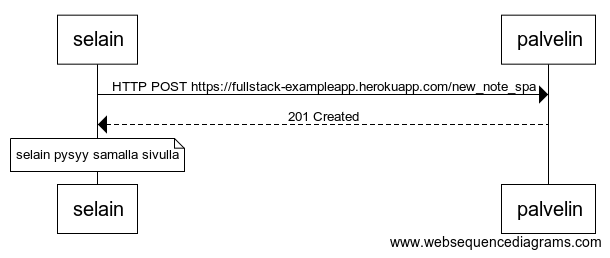
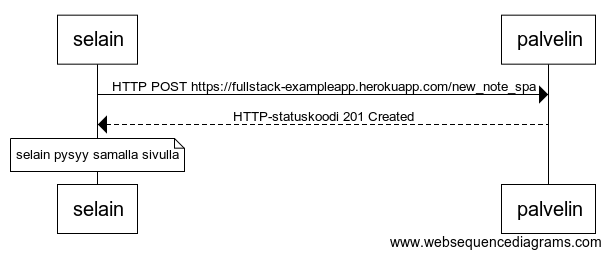
lisätty md ja päivitetty 0.6

Changed region(s): [[0.3738, 0.4341, 0.6852, 0.4961]]

diff --git a/osa0/tehtavat_osa0.md b/osa0/tehtavat_osa0.md
@@ -1,0 +1,13 @@
+# Osan 0 tehtävät
+
+## Tehtävä 0.4: uusi muistiinpano
+
+![alt text](https://raw.githubusercontent.com/areee/fullstack-kurssi/master/osa0/tehtava0_4.png "Tehtävä 0.4")
+
+## Tehtävä 0.5: Single Page App
+
+![alt text](https://raw.githubusercontent.com/areee/fullstack-kurssi/master/osa0/tehtava0_5.png "Tehtävä 0.5")
+
+## Tehtävä 0.6: Uusi muistiinpano
+
+![alt text](https://raw.githubusercontent.com/areee/fullstack-kurssi/master/osa0/tehtava0_6.png "Tehtävä 0.6")
